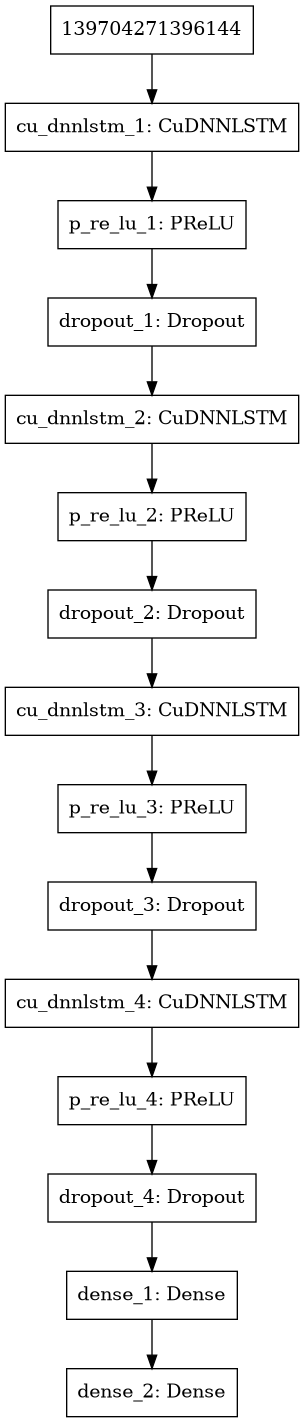
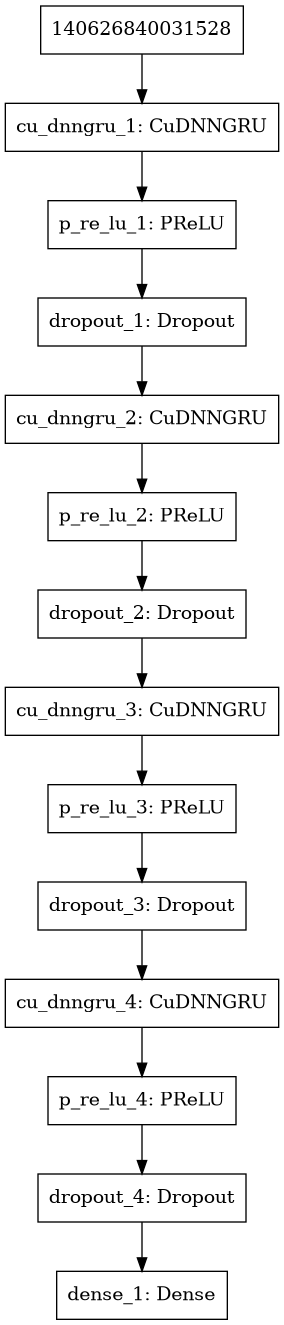
Changes: - Switched from CuDNNLSTM to CuDNNGRU for efficiency, - Increased dropout, - Switched from linear to sigmoid for output layer (warning for minmax).

Changed region(s): [[0.0, 0.0, 0.9859, 1.0], [0.8451, 0.8664, 0.8732, 0.9283], [0.1127, 0.8664, 0.1408, 0.9283]]

diff --git a/utils/neuralnet/model.py b/utils/neuralnet/model.py
@@ -7,7 +7,7 @@ is subject to a lot of changes"""
 import os
 
 from keras.models import Sequential
-from keras.layers import Dense, CuDNNLSTM, Dropout, Flatten, Activation, PReLU
+from keras.layers import Dense, CuDNNLSTM, CuDNNGRU, Dropout, Flatten, Activation, PReLU
 from keras.callbacks import EarlyStopping, ReduceLROnPlateau, ModelCheckpoint, TensorBoard
 from keras.utils import plot_model
 from keras.wrappers.scikit_learn import KerasRegressor
@@ -18,27 +18,25 @@ def build_regressor(n_past, n_features, optimizer="rmsprop"):
     regressor = Sequential()
 
     regressor.add(
-        CuDNNLSTM(units=65,
-                  return_sequences=True,
-                  input_shape=(n_past, n_features)))
+        CuDNNGRU(units=65,
+                 return_sequences=True,
+                 input_shape=(n_past, n_features)))
     regressor.add(PReLU(alpha_initializer="zeros"))
-    regressor.add(Dropout(rate=.5))
+    regressor.add(Dropout(rate=.55))
 
-    regressor.add(CuDNNLSTM(units=65, return_sequences=True))
+    regressor.add(CuDNNGRU(units=65, return_sequences=True))
     regressor.add(PReLU(alpha_initializer="zeros"))
-    regressor.add(Dropout(rate=.5))
+    regressor.add(Dropout(rate=.55))
 
-    regressor.add(CuDNNLSTM(units=65, return_sequences=True))
+    regressor.add(CuDNNGRU(units=65, return_sequences=True))
     regressor.add(PReLU(alpha_initializer="zeros"))
-    regressor.add(Dropout(rate=.5))
+    regressor.add(Dropout(rate=.55))
 
-    regressor.add(CuDNNLSTM(units=65))
+    regressor.add(CuDNNGRU(units=65))
     regressor.add(PReLU(alpha_initializer="zeros"))
-    regressor.add(Dropout(rate=.5))
+    regressor.add(Dropout(rate=.55))
 
-    regressor.add(Dense(units=32, activation="relu"))
-
-    regressor.add(Dense(units=32, activation="linear"))
+    regressor.add(Dense(units=32, activation="sigmoid"))
 
     regressor.compile(optimizer=optimizer, loss="mean_squared_error")
 

diff --git a/cpai.py b/cpai.py
@@ -62,7 +62,8 @@ def main():
                                         y_train,
                                         N_PAST,
                                         optimizer="rmsprop",
-                                        batch_size=16)
+                                        batch_size=64,
+                                        epochs=20)
     regressor.save("models/regressor.h5")
 
     print("Getting last {} hours to predict next {} hours...".format(
